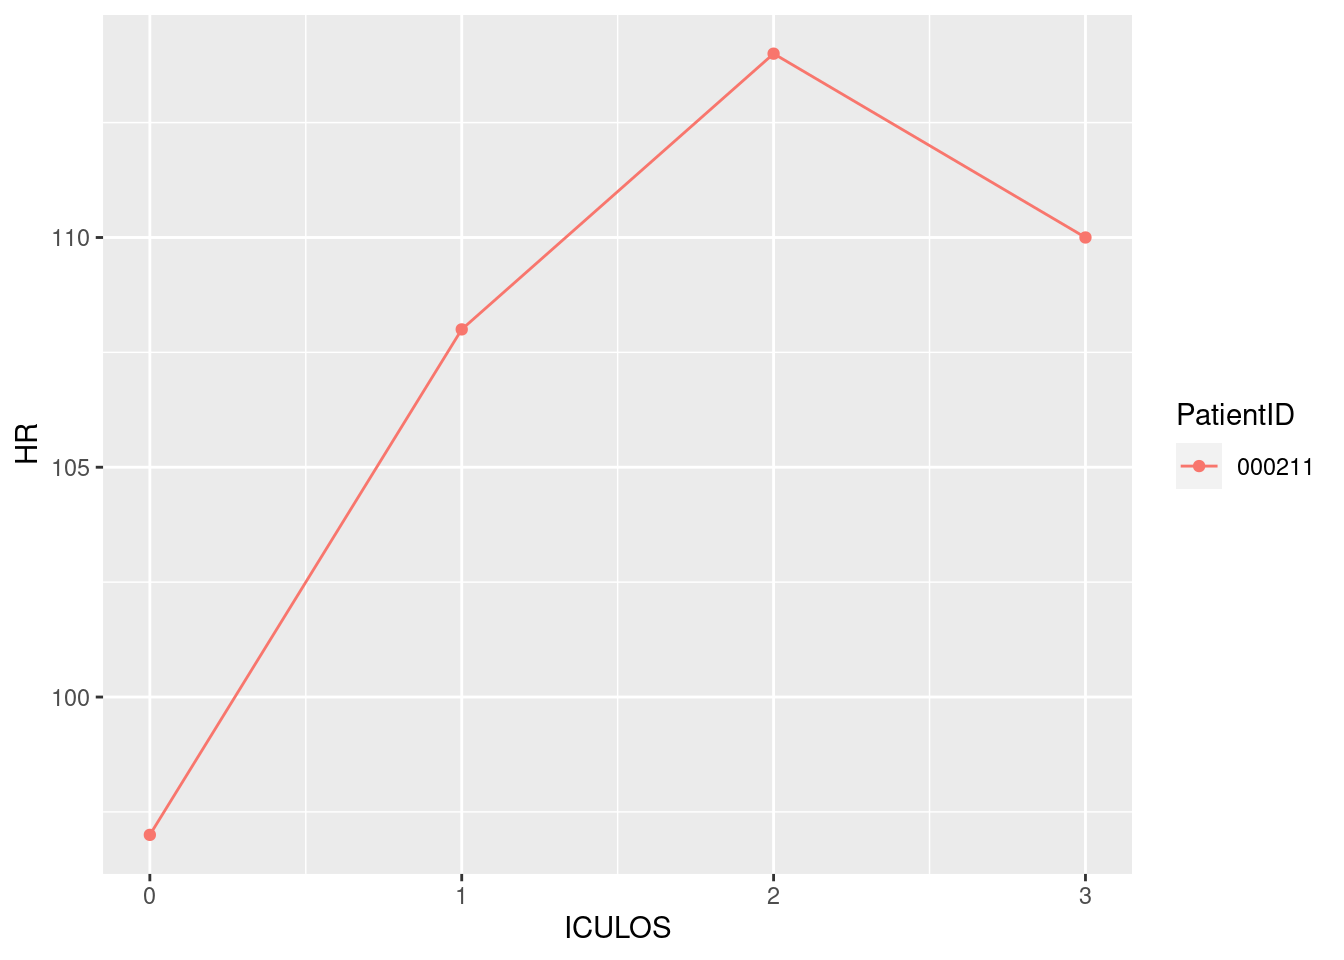
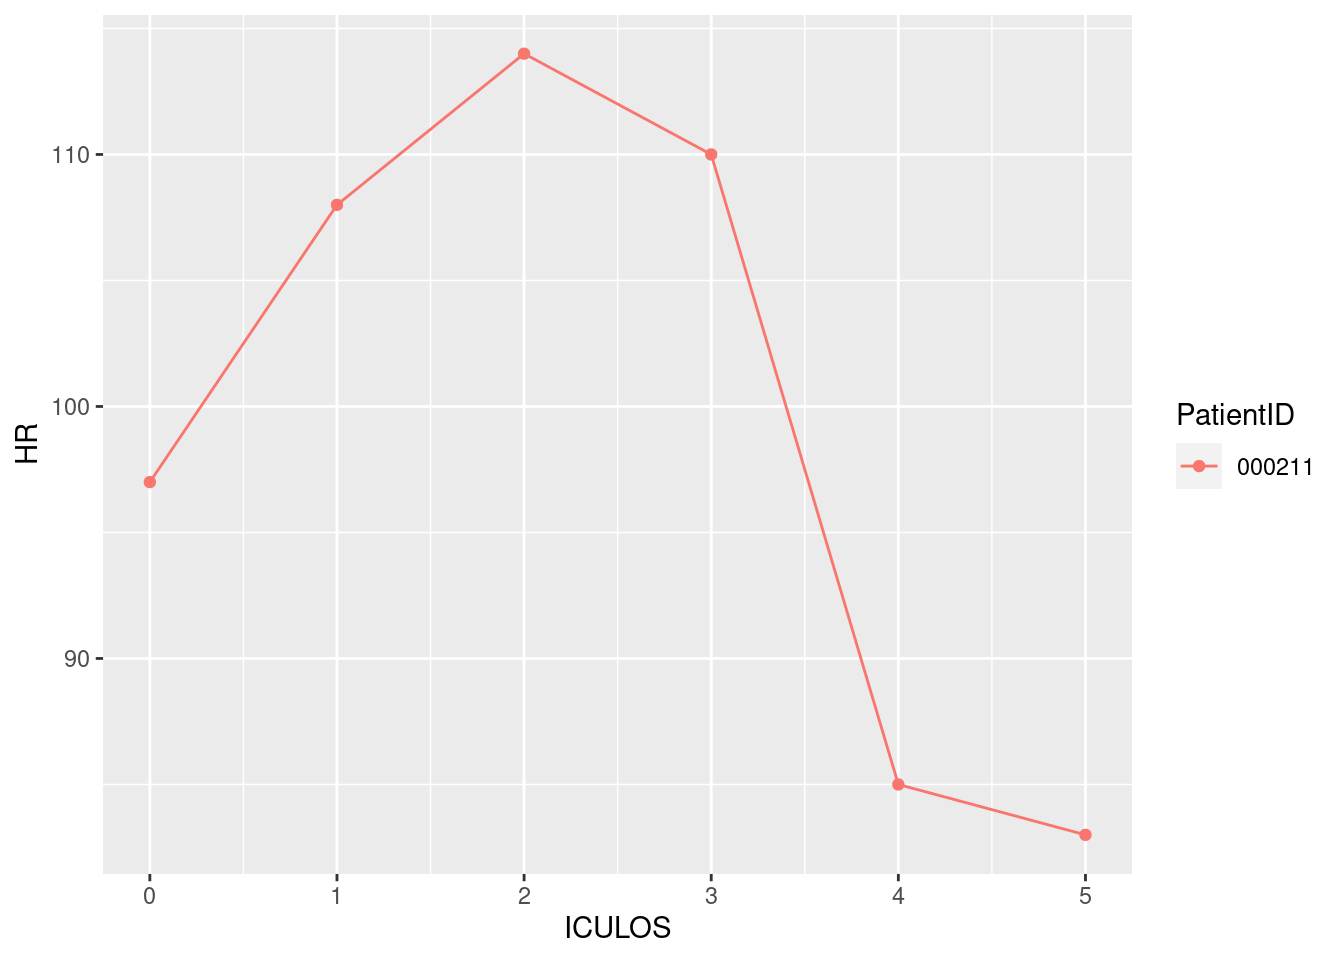
Updated report

diff --git a/a7qmd.html b/a7qmd.html
@@ -80,7 +80,7 @@ ul.task-list li input[type="checkbox"] {
 <h2 class="anchored" data-anchor-id="current-date-and-time">Current date and time</h2>
 <div class="cell">
 <div class="cell-output cell-output-stdout">
-<pre><code>[1] "2023-04-09 22:14:16 UTC"</code></pre>
+<pre><code>[1] "2023-04-09 23:15:10 UTC"</code></pre>
 </div>
 </div>
 </section>
@@ -100,9 +100,9 @@ ul.task-list li input[type="checkbox"] {
 <tbody>
 <tr class="odd">
 <td style="text-align: left;">000211</td>
-<td style="text-align: right;">110</td>
-<td style="text-align: right;">NA</td>
-<td style="text-align: right;">33</td>
+<td style="text-align: right;">83</td>
+<td style="text-align: right;">36.83</td>
+<td style="text-align: right;">25</td>
 </tr>
 </tbody>
 </table>
@@ -139,21 +139,21 @@ ul.task-list li input[type="checkbox"] {
 <tbody>
 <tr class="odd">
 <td style="text-align: left;">000211</td>
-<td style="text-align: right;">-4</td>
+<td style="text-align: right;">-2</td>
 <td style="text-align: right;">NA</td>
-<td style="text-align: right;">0</td>
+<td style="text-align: right;">4</td>
 </tr>
 <tr class="even">
 <td style="text-align: left;">000330</td>
-<td style="text-align: right;">-2</td>
+<td style="text-align: right;">3</td>
 <td style="text-align: right;">NA</td>
 <td style="text-align: right;">0</td>
 </tr>
 <tr class="odd">
 <td style="text-align: left;">000332</td>
-<td style="text-align: right;">-1</td>
-<td style="text-align: right;">NA</td>
 <td style="text-align: right;">1</td>
+<td style="text-align: right;">NA</td>
+<td style="text-align: right;">2</td>
 </tr>
 <tr class="even">
 <td style="text-align: left;">000525</td>
@@ -163,7 +163,7 @@ ul.task-list li input[type="checkbox"] {
 </tr>
 <tr class="odd">
 <td style="text-align: left;">000599</td>
-<td style="text-align: right;">1</td>
+<td style="text-align: right;">2</td>
 <td style="text-align: right;">NA</td>
 <td style="text-align: right;">0</td>
 </tr>
@@ -175,27 +175,27 @@ ul.task-list li input[type="checkbox"] {
 </tr>
 <tr class="odd">
 <td style="text-align: left;">000878</td>
-<td style="text-align: right;">4</td>
-<td style="text-align: right;">0.35</td>
-<td style="text-align: right;">2</td>
+<td style="text-align: right;">-2</td>
+<td style="text-align: right;">-0.05</td>
+<td style="text-align: right;">0</td>
 </tr>
 <tr class="even">
 <td style="text-align: left;">000939</td>
-<td style="text-align: right;">15</td>
+<td style="text-align: right;">-8</td>
 <td style="text-align: right;">NA</td>
-<td style="text-align: right;">NA</td>
+<td style="text-align: right;">-1</td>
 </tr>
 <tr class="odd">
 <td style="text-align: left;">001080</td>
-<td style="text-align: right;">9</td>
+<td style="text-align: right;">1</td>
 <td style="text-align: right;">NA</td>
-<td style="text-align: right;">8</td>
+<td style="text-align: right;">-4</td>
 </tr>
 <tr class="even">
 <td style="text-align: left;">001200</td>
-<td style="text-align: right;">5</td>
+<td style="text-align: right;">-14</td>
 <td style="text-align: right;">NA</td>
-<td style="text-align: right;">-5</td>
+<td style="text-align: right;">NA</td>
 </tr>
 <tr class="odd">
 <td style="text-align: left;">001283</td>
@@ -205,9 +205,9 @@ ul.task-list li input[type="checkbox"] {
 </tr>
 <tr class="even">
 <td style="text-align: left;">001728</td>
-<td style="text-align: right;">0</td>
+<td style="text-align: right;">-2</td>
 <td style="text-align: right;">NA</td>
-<td style="text-align: right;">-5</td>
+<td style="text-align: right;">-7</td>
 </tr>
 <tr class="odd">
 <td style="text-align: left;">001842</td>
@@ -217,9 +217,9 @@ ul.task-list li input[type="checkbox"] {
 </tr>
 <tr class="even">
 <td style="text-align: left;">002131</td>
-<td style="text-align: right;">3</td>
+<td style="text-align: right;">-17</td>
 <td style="text-align: right;">NA</td>
-<td style="text-align: right;">2</td>
+<td style="text-align: right;">7</td>
 </tr>
 <tr class="odd">
 <td style="text-align: left;">002248</td>
@@ -231,7 +231,7 @@ ul.task-list li input[type="checkbox"] {
 <td style="text-align: left;">002321</td>
 <td style="text-align: right;">-1</td>
 <td style="text-align: right;">NA</td>
-<td style="text-align: right;">3</td>
+<td style="text-align: right;">-6</td>
 </tr>
 <tr class="odd">
 <td style="text-align: left;">002434</td>
@@ -243,19 +243,19 @@ ul.task-list li input[type="checkbox"] {
 <td style="text-align: left;">002572</td>
 <td style="text-align: right;">-1</td>
 <td style="text-align: right;">NA</td>
-<td style="text-align: right;">2</td>
+<td style="text-align: right;">0</td>
 </tr>
 <tr class="odd">
 <td style="text-align: left;">002738</td>
-<td style="text-align: right;">-4</td>
+<td style="text-align: right;">-1</td>
 <td style="text-align: right;">NA</td>
-<td style="text-align: right;">4</td>
+<td style="text-align: right;">-3</td>
 </tr>
 <tr class="even">
 <td style="text-align: left;">003684</td>
-<td style="text-align: right;">-73</td>
+<td style="text-align: right;">-1</td>
 <td style="text-align: right;">NA</td>
-<td style="text-align: right;">-3</td>
+<td style="text-align: right;">0</td>
 </tr>
 <tr class="odd">
 <td style="text-align: left;">003690</td>
@@ -271,27 +271,27 @@ ul.task-list li input[type="checkbox"] {
 </tr>
 <tr class="odd">
 <td style="text-align: left;">003740</td>
-<td style="text-align: right;">-2</td>
+<td style="text-align: right;">7</td>
 <td style="text-align: right;">NA</td>
 <td style="text-align: right;">3</td>
 </tr>
 <tr class="even">
 <td style="text-align: left;">003777</td>
-<td style="text-align: right;">2</td>
+<td style="text-align: right;">-1</td>
 <td style="text-align: right;">NA</td>
 <td style="text-align: right;">0</td>
 </tr>
 <tr class="odd">
 <td style="text-align: left;">004131</td>
 <td style="text-align: right;">0</td>
-<td style="text-align: right;">0.10</td>
-<td style="text-align: right;">-1</td>
+<td style="text-align: right;">0.25</td>
+<td style="text-align: right;">3</td>
 </tr>
 <tr class="even">
 <td style="text-align: left;">004389</td>
-<td style="text-align: right;">4</td>
+<td style="text-align: right;">-3</td>
 <td style="text-align: right;">NA</td>
-<td style="text-align: right;">-4</td>
+<td style="text-align: right;">2</td>
 </tr>
 <tr class="odd">
 <td style="text-align: left;">004476</td>
@@ -307,39 +307,39 @@ ul.task-list li input[type="checkbox"] {
 </tr>
 <tr class="odd">
 <td style="text-align: left;">005016</td>
-<td style="text-align: right;">-1</td>
+<td style="text-align: right;">5</td>
 <td style="text-align: right;">NA</td>
 <td style="text-align: right;">4</td>
 </tr>
 <tr class="even">
 <td style="text-align: left;">005278</td>
-<td style="text-align: right;">3</td>
+<td style="text-align: right;">2</td>
 <td style="text-align: right;">NA</td>
-<td style="text-align: right;">1</td>
+<td style="text-align: right;">0</td>
 </tr>
 <tr class="odd">
 <td style="text-align: left;">005546</td>
-<td style="text-align: right;">-12</td>
+<td style="text-align: right;">-1</td>
 <td style="text-align: right;">NA</td>
-<td style="text-align: right;">0</td>
+<td style="text-align: right;">-1</td>
 </tr>
 <tr class="even">
 <td style="text-align: left;">005785</td>
 <td style="text-align: right;">NA</td>
 <td style="text-align: right;">NA</td>
-<td style="text-align: right;">-4</td>
+<td style="text-align: right;">NA</td>
 </tr>
 <tr class="odd">
 <td style="text-align: left;">006938</td>
-<td style="text-align: right;">-10</td>
+<td style="text-align: right;">-4</td>
 <td style="text-align: right;">0.05</td>
-<td style="text-align: right;">2</td>
+<td style="text-align: right;">0</td>
 </tr>
 <tr class="even">
 <td style="text-align: left;">007365</td>
-<td style="text-align: right;">1</td>
-<td style="text-align: right;">0.35</td>
-<td style="text-align: right;">0</td>
+<td style="text-align: right;">NA</td>
+<td style="text-align: right;">NA</td>
+<td style="text-align: right;">NA</td>
 </tr>
 <tr class="odd">
 <td style="text-align: left;">008070</td>
@@ -355,9 +355,9 @@ ul.task-list li input[type="checkbox"] {
 </tr>
 <tr class="odd">
 <td style="text-align: left;">008526</td>
-<td style="text-align: right;">0</td>
-<td style="text-align: right;">NA</td>
 <td style="text-align: right;">-1</td>
+<td style="text-align: right;">NA</td>
+<td style="text-align: right;">-2</td>
 </tr>
 <tr class="even">
 <td style="text-align: left;">008652</td>
@@ -373,27 +373,27 @@ ul.task-list li input[type="checkbox"] {
 </tr>
 <tr class="even">
 <td style="text-align: left;">008907</td>
-<td style="text-align: right;">-5</td>
+<td style="text-align: right;">6</td>
 <td style="text-align: right;">NA</td>
-<td style="text-align: right;">4</td>
+<td style="text-align: right;">-5</td>
 </tr>
 <tr class="odd">
 <td style="text-align: left;">008916</td>
-<td style="text-align: right;">21</td>
+<td style="text-align: right;">1</td>
 <td style="text-align: right;">NA</td>
-<td style="text-align: right;">2</td>
+<td style="text-align: right;">-3</td>
 </tr>
 <tr class="even">
 <td style="text-align: left;">009179</td>
-<td style="text-align: right;">-3</td>
+<td style="text-align: right;">10</td>
 <td style="text-align: right;">NA</td>
-<td style="text-align: right;">-2</td>
+<td style="text-align: right;">1</td>
 </tr>
 <tr class="odd">
 <td style="text-align: left;">009185</td>
-<td style="text-align: right;">-2</td>
+<td style="text-align: right;">2</td>
 <td style="text-align: right;">NA</td>
-<td style="text-align: right;">-15</td>
+<td style="text-align: right;">-1</td>
 </tr>
 <tr class="even">
 <td style="text-align: left;">009245</td>
@@ -403,9 +403,9 @@ ul.task-list li input[type="checkbox"] {
 </tr>
 <tr class="odd">
 <td style="text-align: left;">009324</td>
-<td style="text-align: right;">1</td>
+<td style="text-align: right;">-15</td>
 <td style="text-align: right;">NA</td>
-<td style="text-align: right;">-2</td>
+<td style="text-align: right;">-5</td>
 </tr>
 <tr class="even">
 <td style="text-align: left;">009343</td>
@@ -417,7 +417,7 @@ ul.task-list li input[type="checkbox"] {
 <td style="text-align: left;">009453</td>
 <td style="text-align: right;">NA</td>
 <td style="text-align: right;">NA</td>
-<td style="text-align: right;">NA</td>
+<td style="text-align: right;">-6</td>
 </tr>
 </tbody>
 </table>
